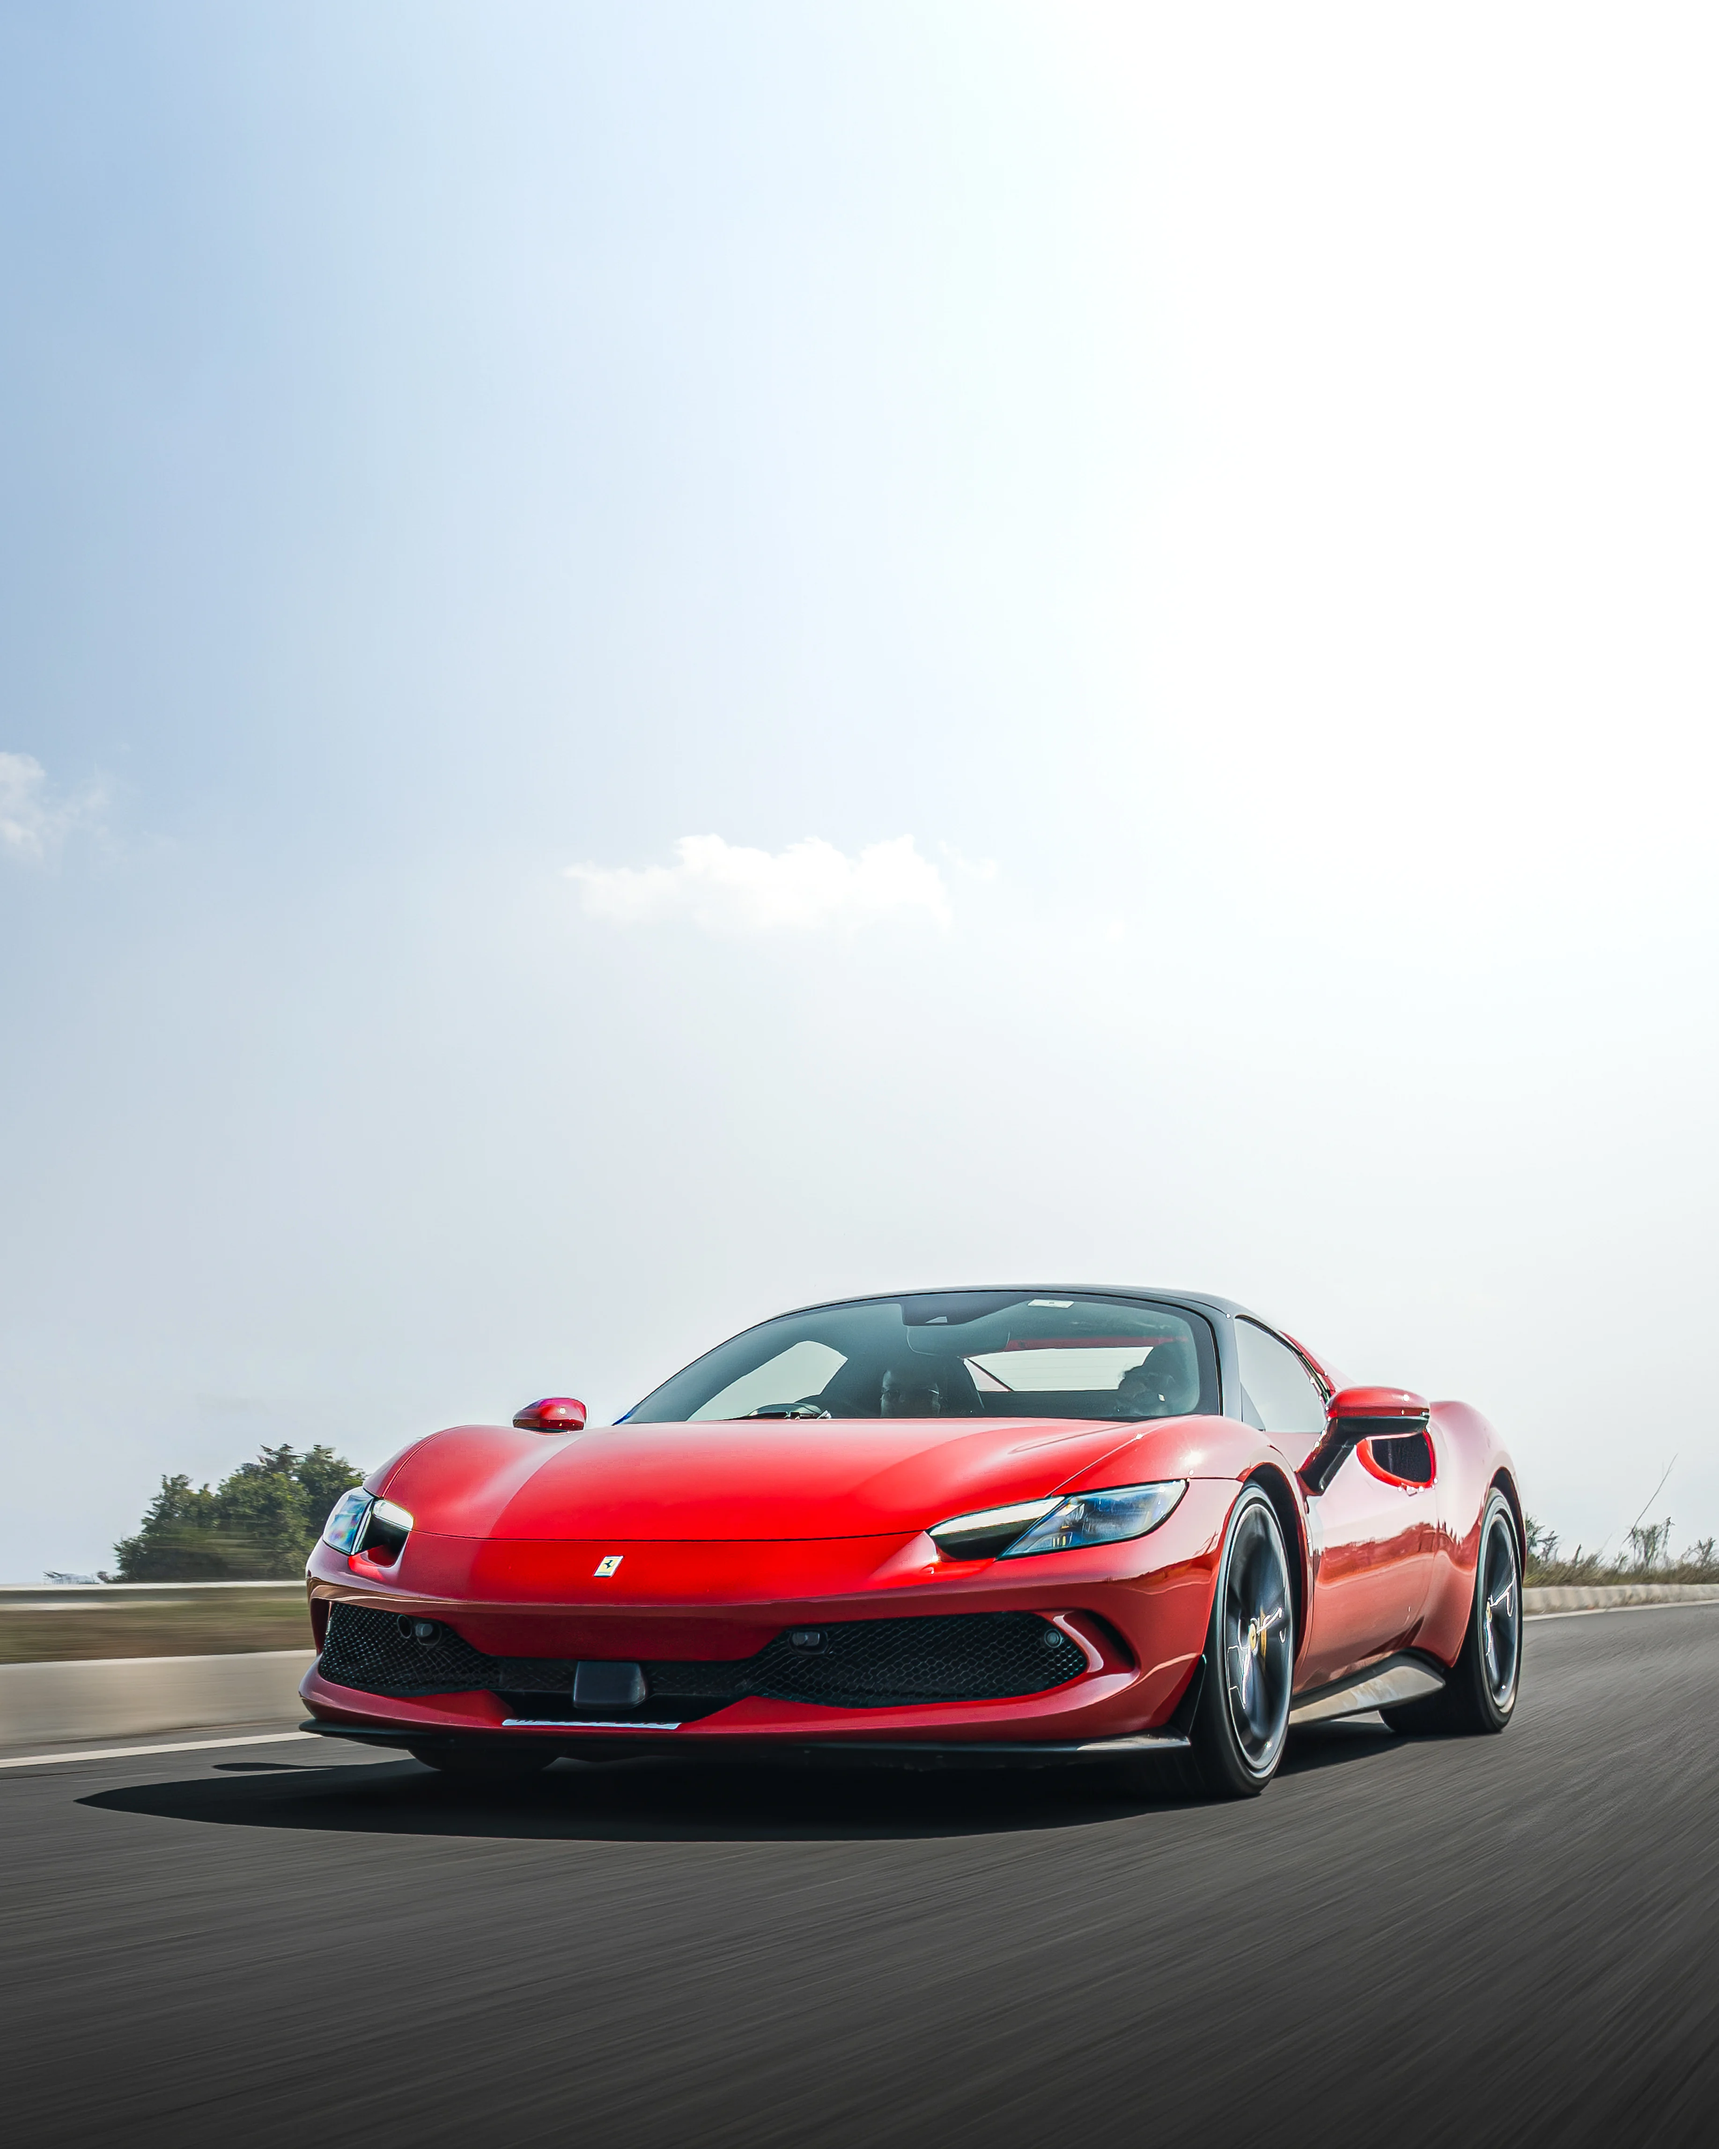
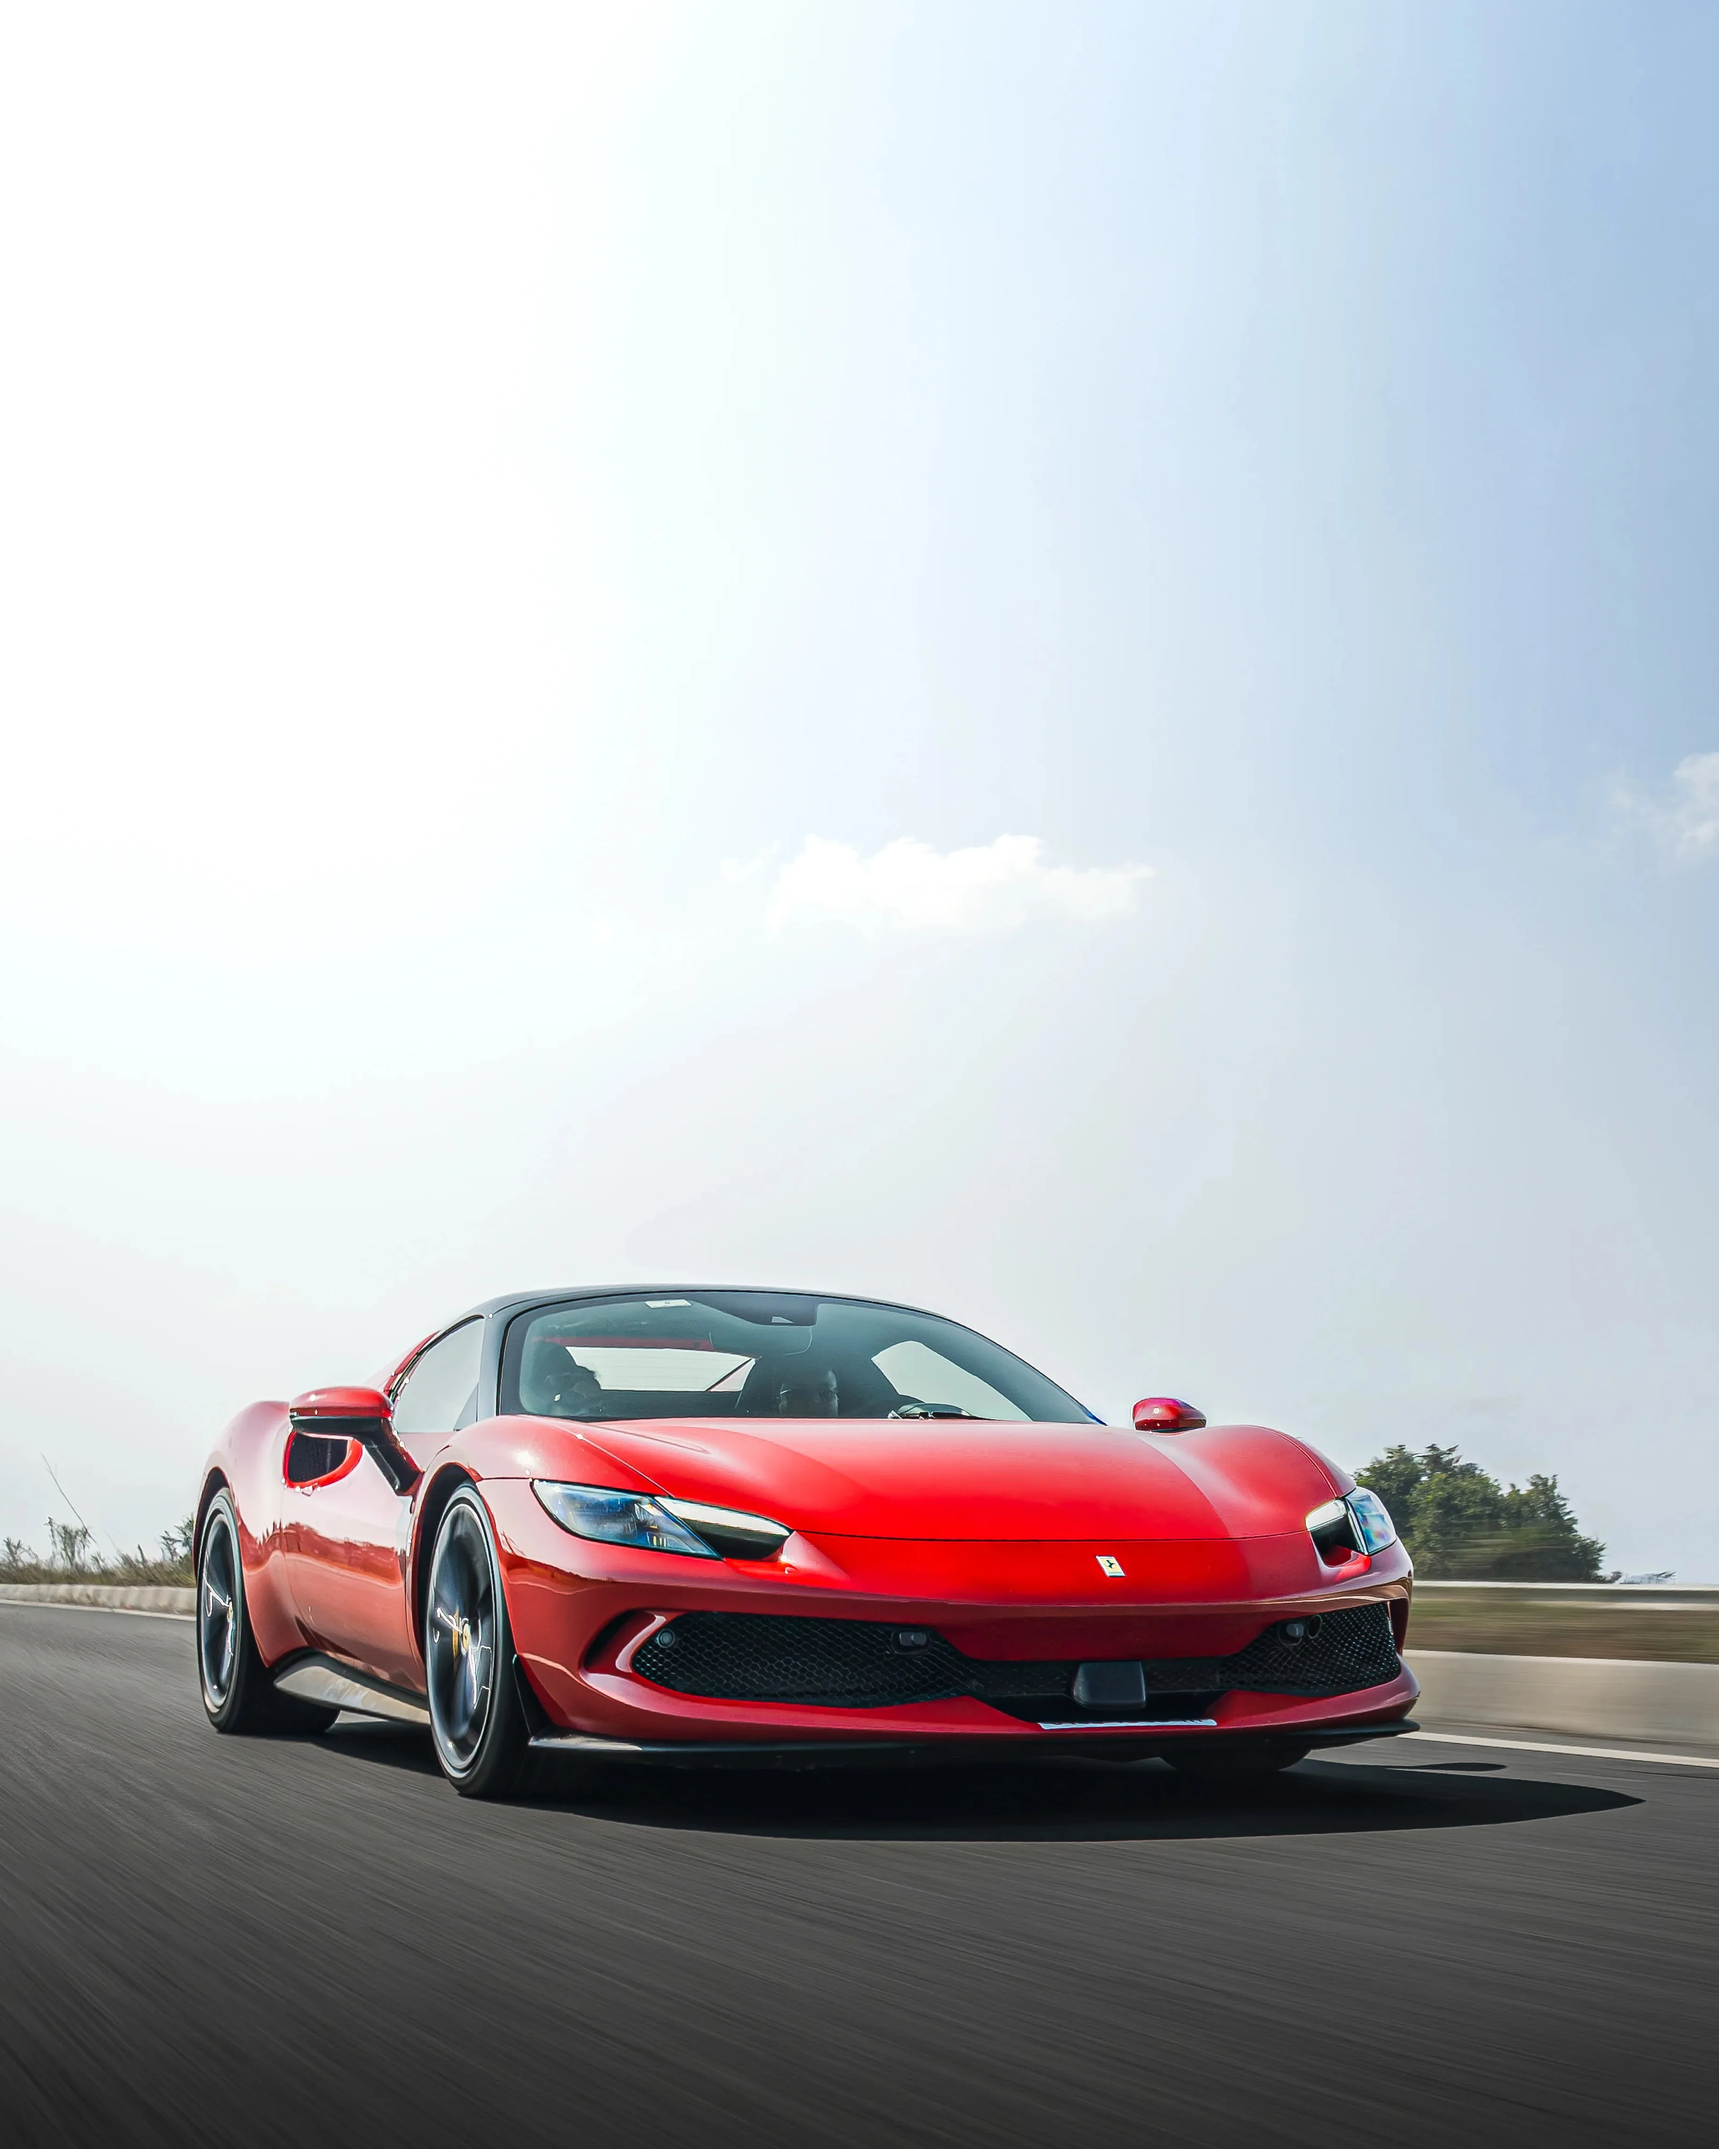
cover

diff --git a/index.html b/index.html
@@ -153,8 +153,8 @@
      <a href="projects/ferrari296gts2026.html" class="project-card">
 
         <picture>
-            <source srcset="images/covers/ferrari296gtb2026.webp" type="image/webp">
-            <img src="images/covers/ferrari296gtb2026.jpg" alt="Ferrari 296 GTS" class="cover-ferrari296gts2026" width="800" height="1000" loading="lazy" decoding="async">
+            <source srcset="images/covers/ferrari296gts2026.webp" type="image/webp">
+            <img src="images/covers/ferrari296gts2026.jpg" alt="Ferrari 296 GTS" class="cover-ferrari296gts2026" width="800" height="1000" loading="lazy" decoding="async">
         </picture>
 
         <div class="overlay">
